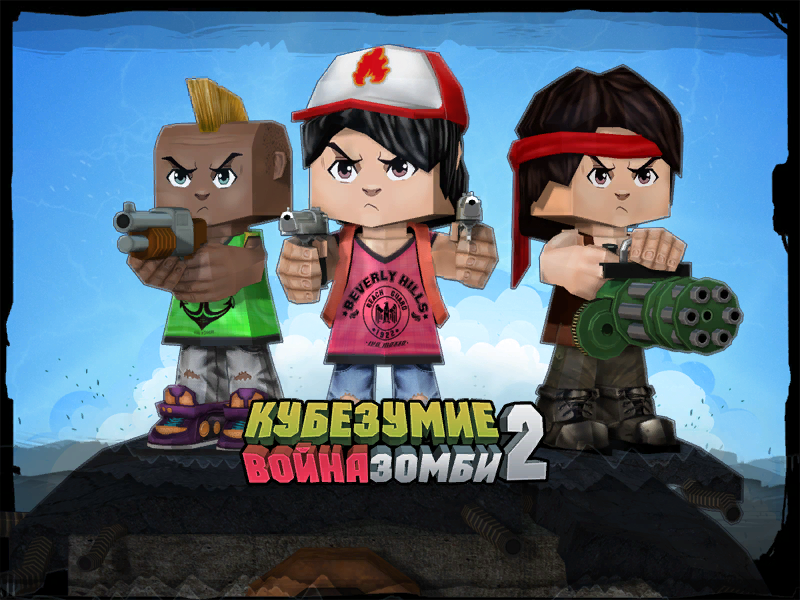
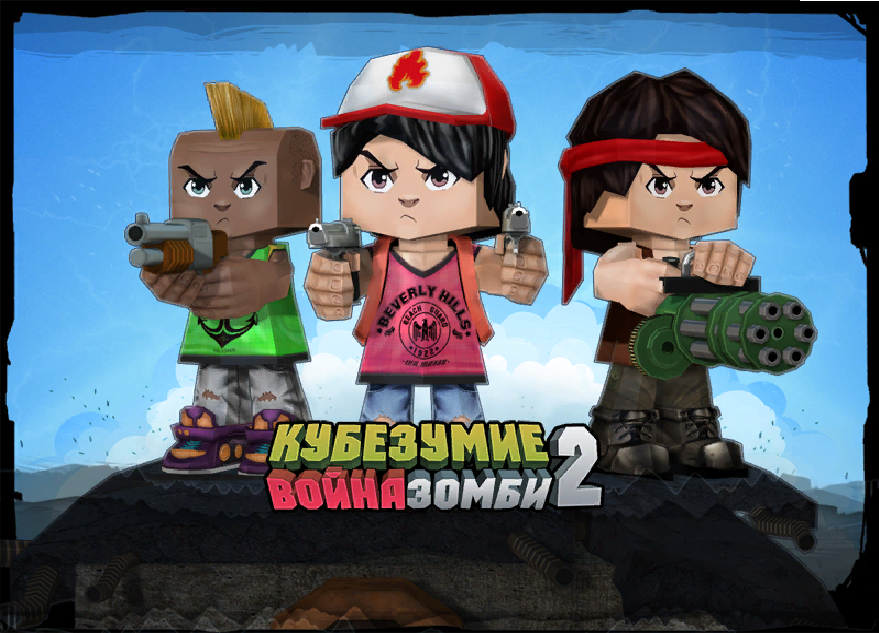
fdgfgdf

diff --git a/TemplateData/style.css b/TemplateData/style.css
@@ -3,12 +3,12 @@ body { padding: 0; margin: 0 }
 #unity-container { position: absolute }
 #unity-container.unity-desktop { left: 50%; top: 50%; transform: translate(-50%, -50%) }
 #unity-container.unity-mobile { width: 100%; height: 100% }
-#unity-canvas { background: url('menu1.png') no-repeat center  }
+#unity-canvas {  width: 960px; height: 1000px; background: url('menu1.png') no-repeat center  }
 .unity-mobile #unity-canvas { width: 100%; height: 100% }
 #unity-loading-bar { position: absolute; left: 50%; top: 50%; transform: translate(-50%, -50%); display: none }
 
 #unity-progress-bar-empty { width: 350px; height: 25px; margin-top: 400px; background: url('lbg.png') no-repeat center }
-#unity-progress-bar-full { width: 0%; height: 25px; margin-top: 400px; margin-right: 100px; background: url('lfill.png') no-repeat center }
+#unity-progress-bar-full { width: 0%; height: 25px; margin-top: 400px; margin-right: 160px; background: url('lfill.png') no-repeat center }
 #unity-footer { position: relative }
 .unity-mobile #unity-footer { display: none }
 #unity-build-title { float: right; margin-right: 10px; line-height: 38px; font-family: arial; font-size: 18px }
